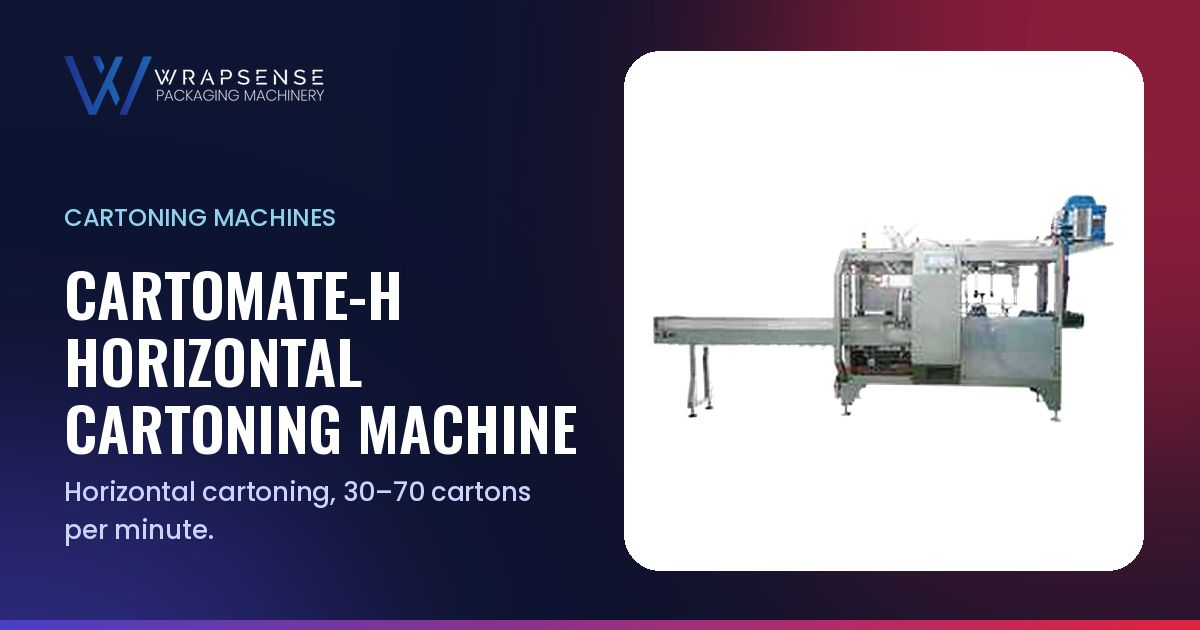
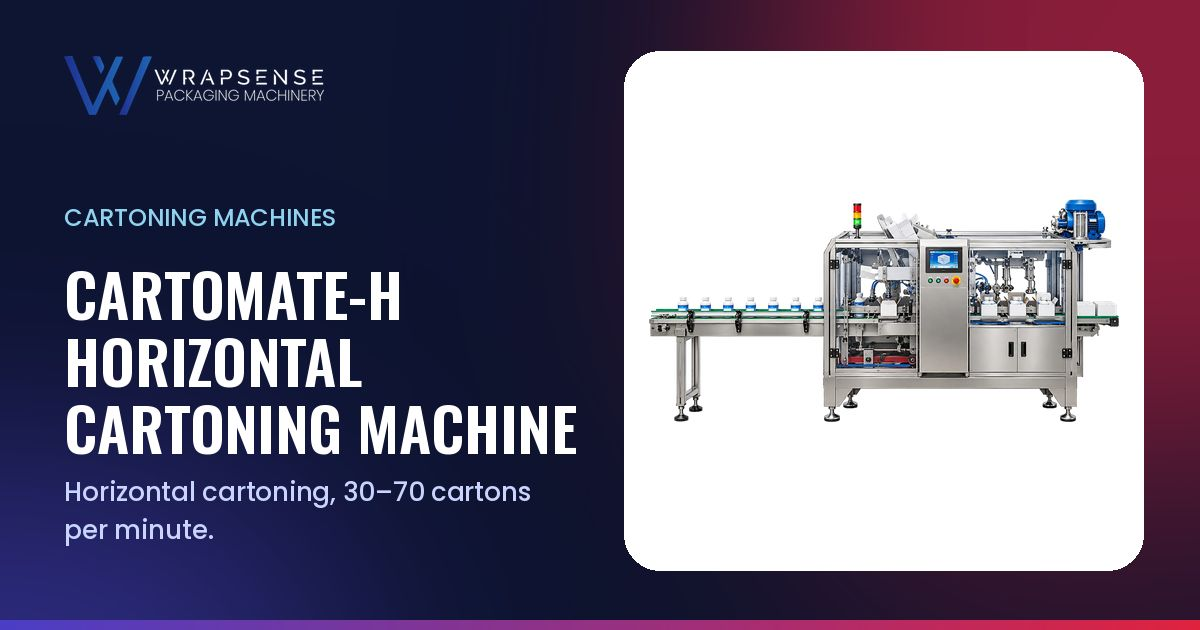
CartoMate-H: new render; blurry cartoning photo removed
- New render cut out from white (pure-white background only, so white cartons/bottles stay; floor via
  the AI mask), 1600x760 WebP with alpha; same filename so all pages update; OG images regenerated
- Removed the tiny blurry cartoning-action photo from the gallery, deleted it and dropped it from the
  catalog extraction script

Claude-Session: https://claude.ai/code/session_01QFn2KCFGMPNr5c9DCf1rvZ

Changed region(s): [[0.5242, 0.3016, 0.9558, 0.6937]]

diff --git a/tools/extract-catalog-images.py b/tools/extract-catalog-images.py
@@ -39,8 +39,7 @@ MAP = {
   0:('photos','film-line','photo'), 3:('photos','filling-closeup','photo'), 4:('photos','technician','photo'),
   123:('photos','weigher-snacks','photo'), 125:('photos','weigher-install','photo'), 128:('photos','vffs-install','photo'),
   181:('photos','case-erector-action','photo'),
-  206:('photos','case-packing-action','photo'), 204:('photos','case-packing-line','photo'),
-  226:('photos','cartoning-action','photo'), 228:('photos','cartoning-rotary','photo'), 251:('photos','weigher-detail','photo'),
+  206:('photos','case-packing-action','photo'), 204:('photos','case-packing-line','photo'), 228:('photos','cartoning-rotary','photo'), 251:('photos','weigher-detail','photo'),
 }
 
 tmp = tempfile.mkdtemp()
